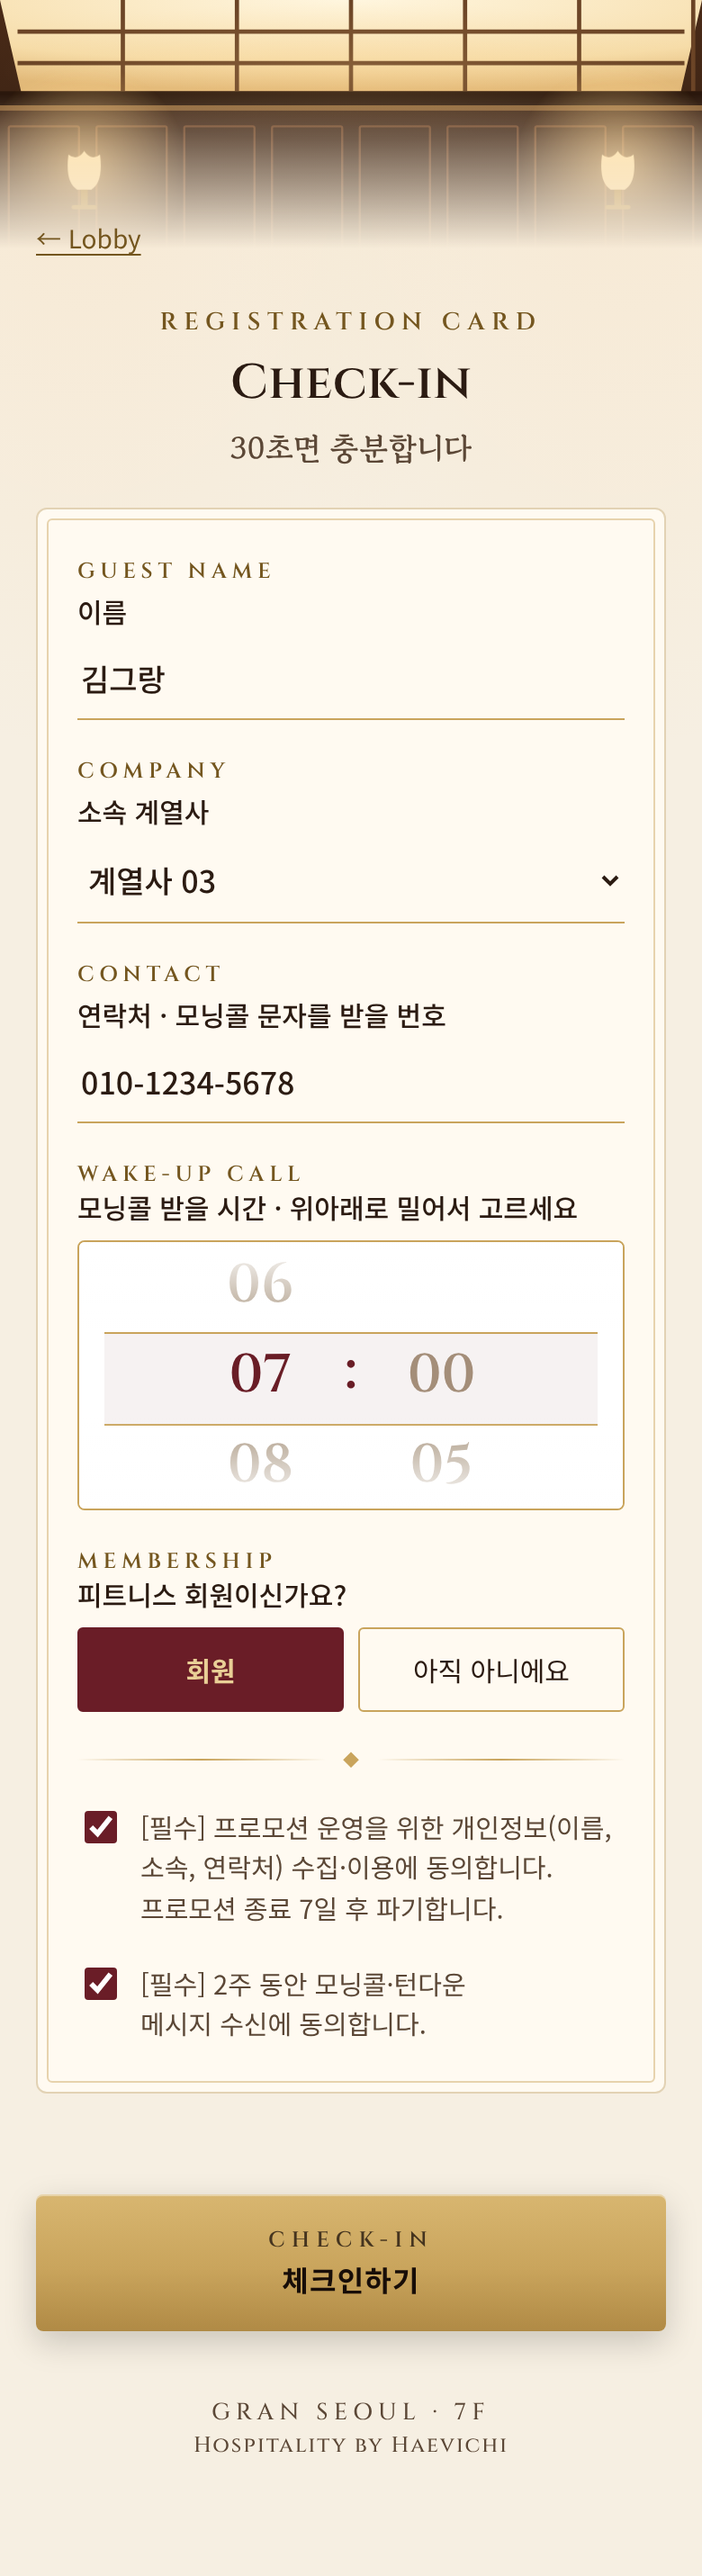
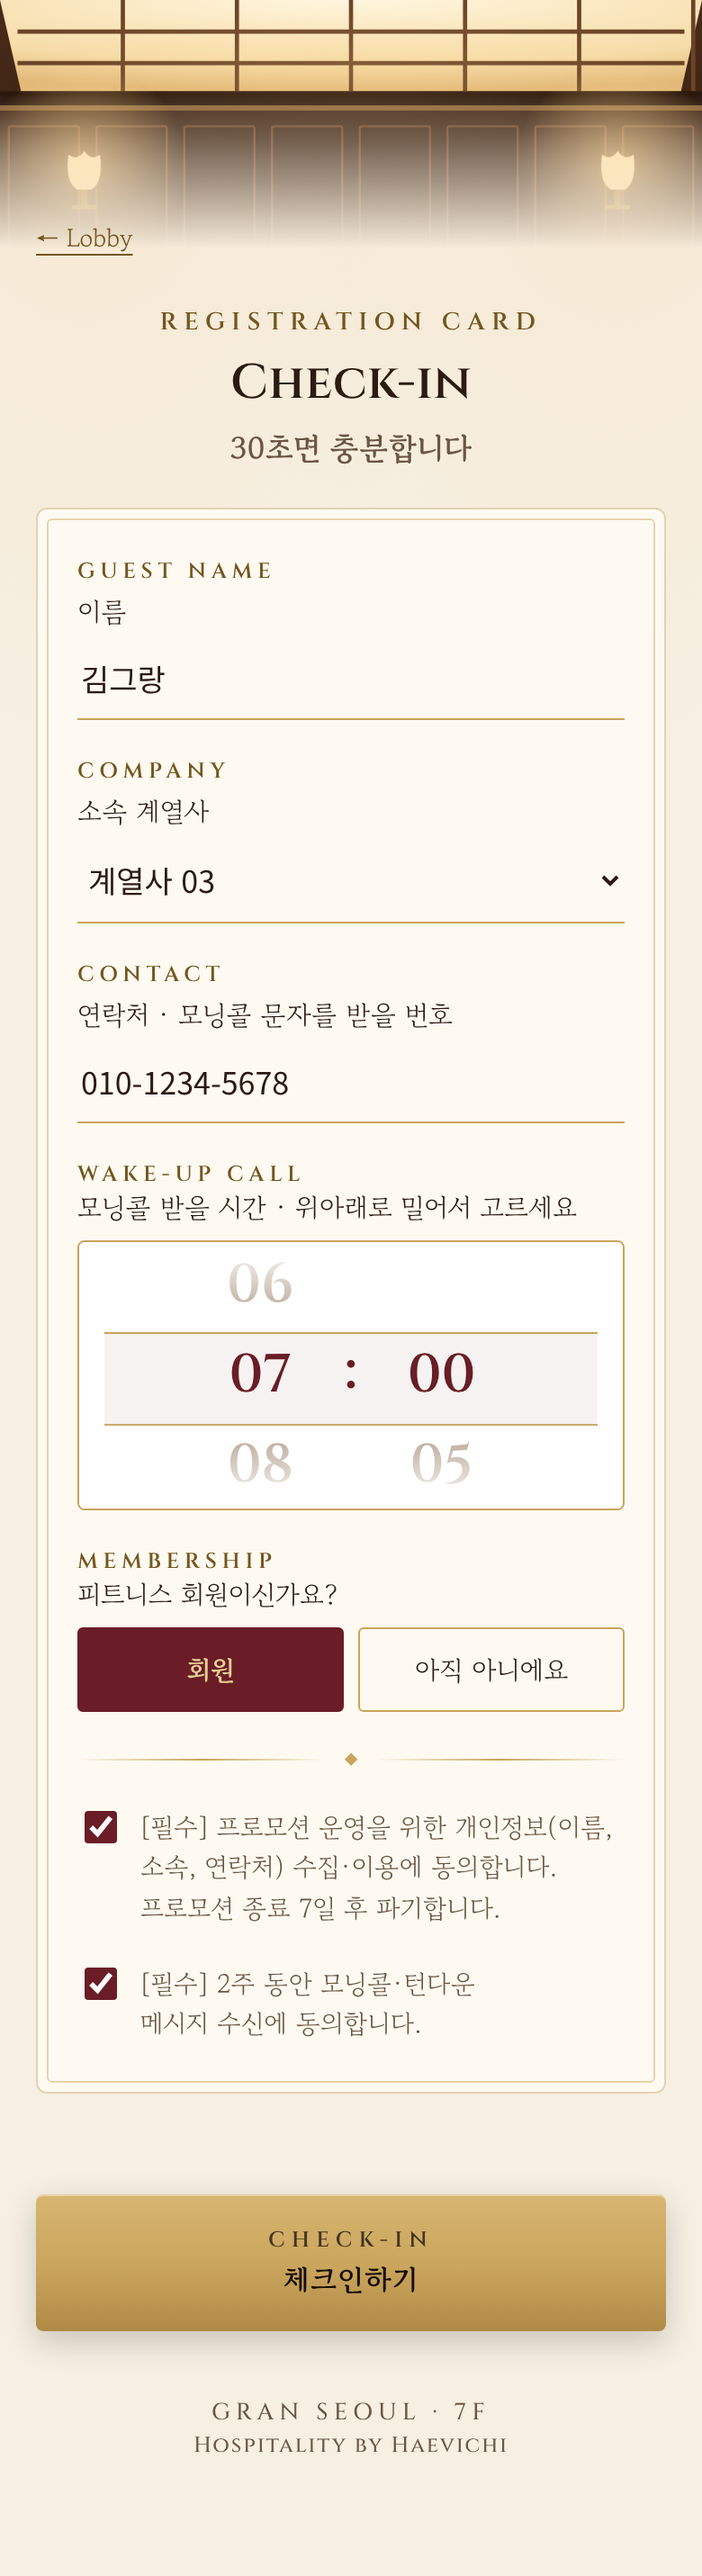
Unify Korean text in Gowun Batang serif, add photo cards for other scenes
- Korean text set in serif with lighter weight; inputs, times and dates stay sans
- Other-scene cards show a thumbnail of each scene; tonight's pick outlined
- Time wheel highlights the initial minute

Claude-Session: https://claude.ai/code/session_011z6wvs2Gb5um8vyCmLK585

diff --git a/index.html b/index.html
@@ -28,7 +28,7 @@
   --card:#fffaf1;
   --line:#e2d2b4;
   --ink:#2b1b12;
-  --muted:#5b4736;
+  --muted:#6a5644;
   --lamp:#f3d6a8;
 
   --en:'Cinzel',serif;                       /* 영문 제목 · 숫자 */
@@ -48,6 +48,10 @@ button,input,select{font:inherit;color:inherit}
 @keyframes fadeIn{from{opacity:0;transform:translateY(6px)}to{opacity:1;transform:none}}
 h1,h2,h3{margin:0;line-height:1.25;font-weight:600}
 p{margin:0;line-height:1.7}
+/* 2안: 한글은 모두 명조(고운바탕)로 통일. 입력칸·시간·날짜 숫자만 또렷한 고딕 */
+body,button{font-family:var(--serif)}
+input,select,.times,.slot b,.slot .small,.banner{font-family:var(--sans)}
+.btn{letter-spacing:.02em}
 /* 한글이 단어 중간에서 끊기지 않게, 줄 길이는 고르게 */
 body{word-break:keep-all;overflow-wrap:break-word}
 p,h1,h2,h3,label,.status{text-wrap:balance}
@@ -57,7 +61,7 @@ p,h1,h2,h3,label,.status{text-wrap:balance}
 .eyebrow{font-family:var(--en);font-size:13.5px;letter-spacing:.28em;text-transform:uppercase;color:var(--brass-dark);font-weight:600}
 .dark .eyebrow{color:var(--brass)}
 .muted{color:var(--muted)}
-.dark .muted{color:rgba(243,214,168,.86);font-weight:500}
+.dark .muted{color:rgba(243,214,168,.78);font-weight:400}
 .small{font-size:15px}
 .stack{display:flex;flex-direction:column;gap:12px}
 .row{display:flex;gap:10px;align-items:center}
@@ -127,13 +131,13 @@ body.dark #ceiling{display:none}
 .lamp-glow{opacity:.95;animation:flicker 4s ease-in-out infinite}
 @keyframes flicker{0%,100%{opacity:.95}45%{opacity:.82}60%{opacity:1}}
 .hero-copy{text-align:center;padding:26px 6px 4px}
-.hero-copy>p{font-size:17px;color:var(--lamp)!important;line-height:1.75}
+.hero-copy>p{font-size:17px;font-weight:400;color:rgba(246,233,212,.9)!important;line-height:1.75}
 .hero-copy h1{font-family:var(--en);font-weight:600;font-size:34px;line-height:1.15;color:var(--brass-light);margin:12px 0 14px}
 .hero-copy h1 i{font-style:normal;font-weight:500;font-size:24px;color:var(--brass)}
 .plate{display:inline-block;font-family:var(--en);font-weight:600;letter-spacing:.32em;font-size:12px;color:var(--walnut-900);padding:6px 12px 6px 16px;border-radius:2px;
   background:linear-gradient(180deg,#e7cd92,#b8924a);box-shadow:inset 0 1px 0 rgba(255,255,255,.5),0 2px 6px rgba(0,0,0,.4)}
 .svc-list{border-top:1px solid rgba(201,164,92,.35)}
-.svc p{font-size:15.5px;line-height:1.65}
+.svc p{font-size:15.5px;line-height:1.7;letter-spacing:-.01em}
 .svc{display:grid;grid-template-columns:44px 1fr;gap:14px;align-items:start;padding:18px 2px;border-bottom:1px solid rgba(201,164,92,.35)}
 .svc{grid-template-columns:56px 1fr!important}
 .svc .ico{width:56px;height:56px;border-radius:50%;display:grid;place-items:center;background:radial-gradient(circle,rgba(255,206,130,.36),rgba(255,206,130,0) 72%)}
@@ -175,7 +179,7 @@ body.lobby #s-welcome :is(p,h2){text-shadow:0 1px 3px rgba(0,0,0,.9),0 2px 14px 
 /* ---------------------------------------------------------
    신청서 (Registration Card)
    --------------------------------------------------------- */
-label.f{display:flex;flex-direction:column;gap:4px;font-size:15px;font-weight:500;color:var(--ink)}
+label.f{display:flex;flex-direction:column;gap:4px;font-size:15px;font-weight:400;color:var(--ink)}
 label.f b{font-family:var(--en);font-size:12px;letter-spacing:.24em;text-transform:uppercase;color:var(--brass-dark);font-weight:600}
 input[type=text],input[type=tel],select{border:0;border-bottom:1px solid var(--brass);background:transparent;border-radius:0;padding:10px 2px;font-size:17px;width:100%;color:var(--ink)}
 input:focus,select:focus{outline:none;border-bottom:2px solid var(--burgundy)}
@@ -246,7 +250,11 @@ input:focus,select:focus{outline:none;border-bottom:2px solid var(--burgundy)}
 .done .hanger{background:var(--walnut-700)}
 @keyframes sway{0%,100%{transform:rotate(-2deg)}50%{transform:rotate(2deg)}}
 .scenes{display:grid;grid-template-columns:1fr 1fr;gap:8px}
-.scenes button{border:1px solid var(--line);background:#fff;border-radius:4px;padding:14px 12px;text-align:left;cursor:pointer;font-size:14px}
+.scenes{gap:10px!important}
+.scenes button{border:1px solid var(--line);background:#fff;border-radius:4px;padding:0;overflow:hidden;text-align:left;cursor:pointer;font-size:14px}
+.scenes button img{display:block;width:100%;aspect-ratio:16/10;object-fit:cover;background:var(--walnut-800)}
+.scenes button .t{display:block;padding:10px 12px 12px}
+.scenes button.now{box-shadow:0 0 0 2px var(--burgundy);border-color:var(--burgundy)}
 .scenes button b{display:block;font-family:var(--serif);font-size:14px;font-weight:500}
 summary{cursor:pointer;list-style:none;display:flex;justify-content:space-between;align-items:baseline;gap:10px}
 summary::-webkit-details-marker{display:none}
@@ -1147,7 +1155,7 @@ function setCol(col, v, smooth) {
 }
 buildCol($('wHour'), Array.from({ length: CONFIG.wake.to - CONFIG.wake.from + 1 }, (_, i) => pad2(CONFIG.wake.from + i)), 'h');
 buildCol($('wMin'), Array.from({ length: 60 / CONFIG.wake.step }, (_, i) => pad2(i * CONFIG.wake.step)), 'm');
-function initWheel() { setCol($('wHour'), wakeSel.h); setCol($('wMin'), wakeSel.m); }
+function initWheel() { setCol($('wHour'), wakeSel.h); setCol($('wMin'), wakeSel.m); ['wHour', 'wMin'].forEach(id => $(id).dispatchEvent(new Event('scroll'))); }
 document.querySelectorAll('.choices').forEach(group => group.addEventListener('click', e => {
   const b = e.target.closest('.choice'); if (!b) return;
   group.querySelectorAll('.choice').forEach(x => x.setAttribute('aria-pressed', x === b));
@@ -1185,6 +1193,18 @@ $('logout').onclick = () => { state.code = null; state.data = null; Device.clear
 
 async function refresh() { state.data = await Store.getUser(state.code); }
 
+/* 다른 풍경 카드 사진: 재생 화면 그림을 한 번 찍어서 작게 저장해 둠 */
+const thumbCache = {};
+function sceneThumb(k) {
+  if (!thumbCache[k]) {
+    ENGINE[k](12);
+    const c = document.createElement('canvas'); c.width = 480; c.height = 300;
+    c.getContext('2d').drawImage(ENGINE.cv, 0, 0, 480, 300);
+    thumbCache[k] = c.toDataURL('image/jpeg', .8);
+  }
+  return thumbCache[k];
+}
+
 /* --- 내 2주 --- */
 const doneCount = () => state.data.logs.length;
 const has = (kind, date) => state.data.logs.some(l => l.kind === kind && l.date === date);
@@ -1219,7 +1239,7 @@ async function renderMe() {
   $('cardNight').classList.toggle('done', nDone);
   $('nHang').textContent = nDone ? 'Do not disturb' : 'Turndown';
   $('nStatus').textContent = nDone ? '오늘 턴다운 인증 완료 ✓\n다시 들어도 기록되지 않아요' : SCENES[tonight].sub;
-  $('sceneList').innerHTML = NIGHT_ORDER.map(k => `<button data-play="${k}"><b>${SCENES[k].name}</b><span class="muted small">${SCENES[k].sub}</span></button>`).join('');
+  $('sceneList').innerHTML = NIGHT_ORDER.map(k => `<button data-play="${k}" class="${k === tonight ? 'now' : ''}"><img src="${sceneThumb(k)}" alt="${SCENES[k].name} 풍경"><span class="t"><b>${SCENES[k].name}</b><span class="muted small">${SCENES[k].sub}</span></span></button>`).join('');
 
   const counts = await Store.slotCounts().catch(() => ({}));
   const mine = state.data.bookings.map(b => b.slot);
